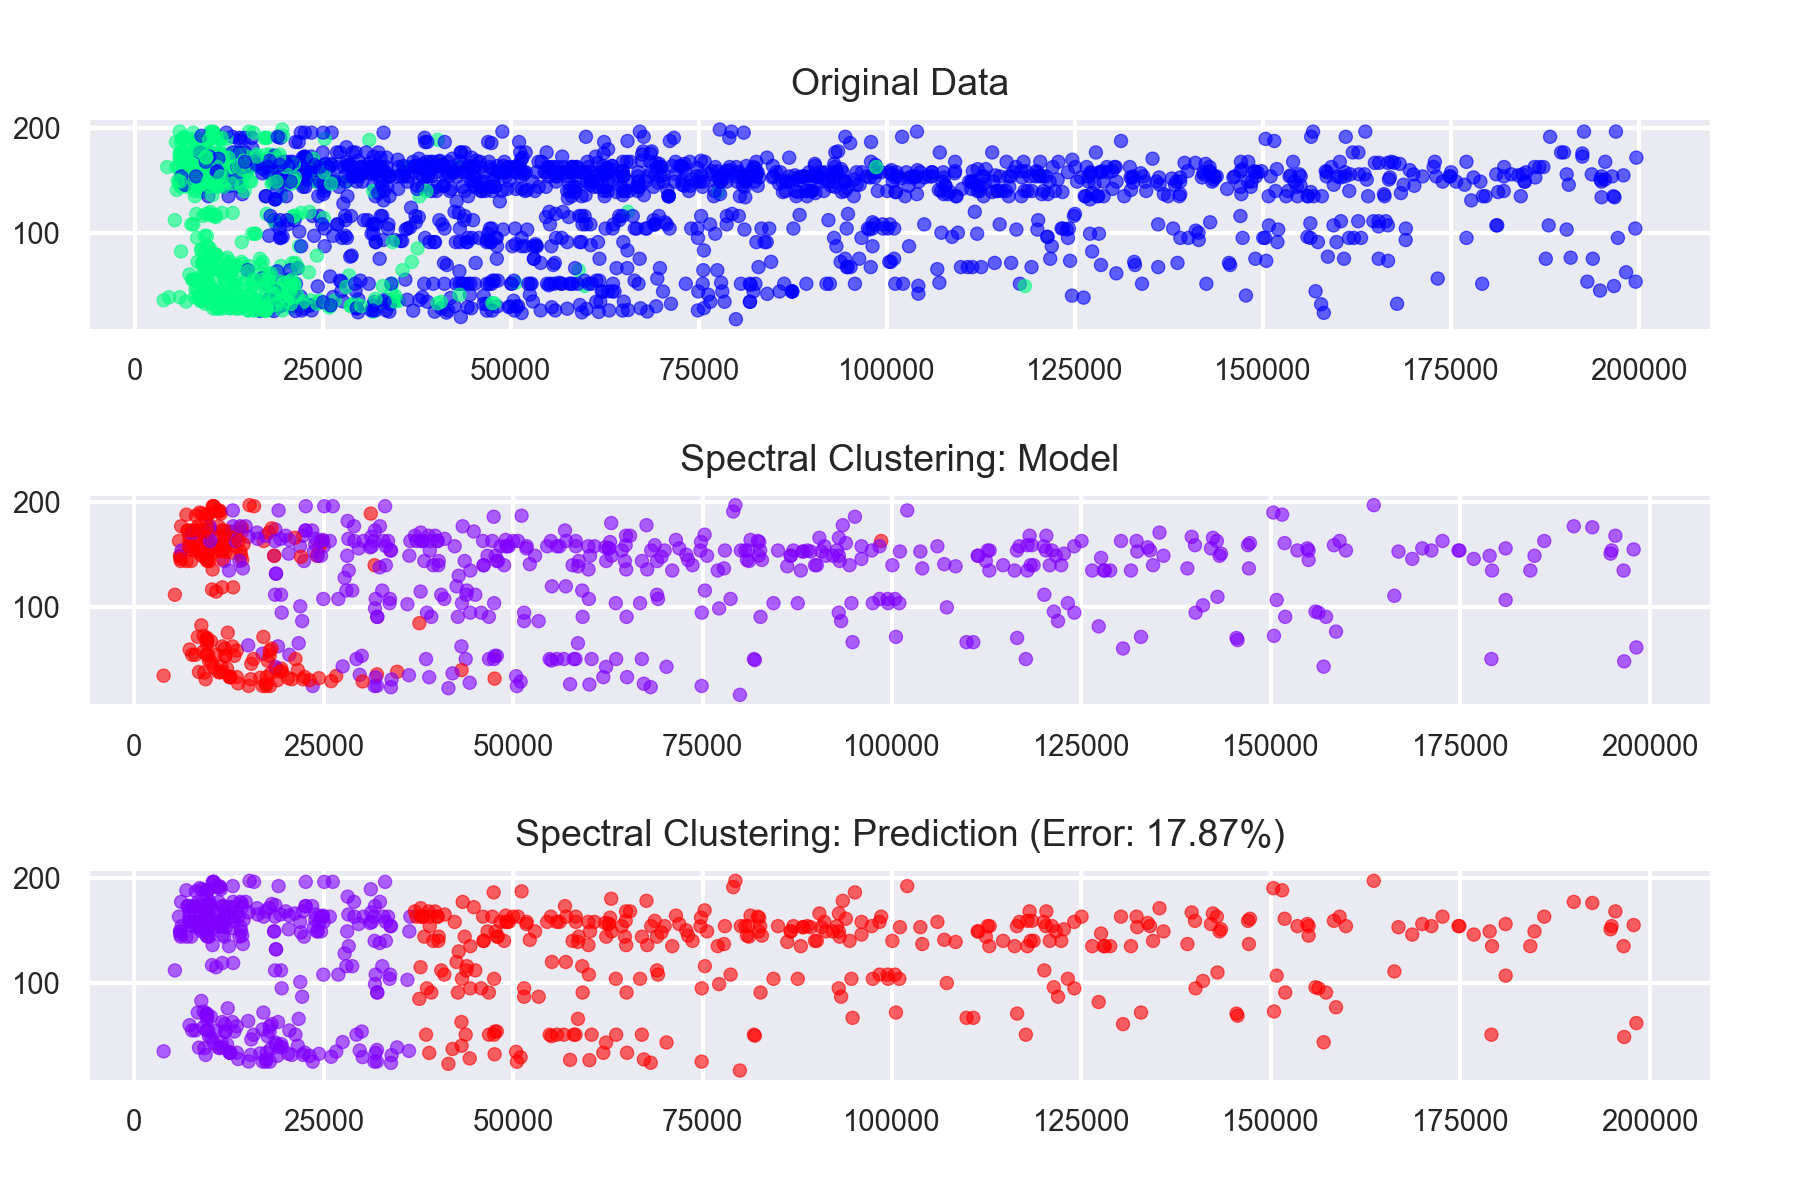
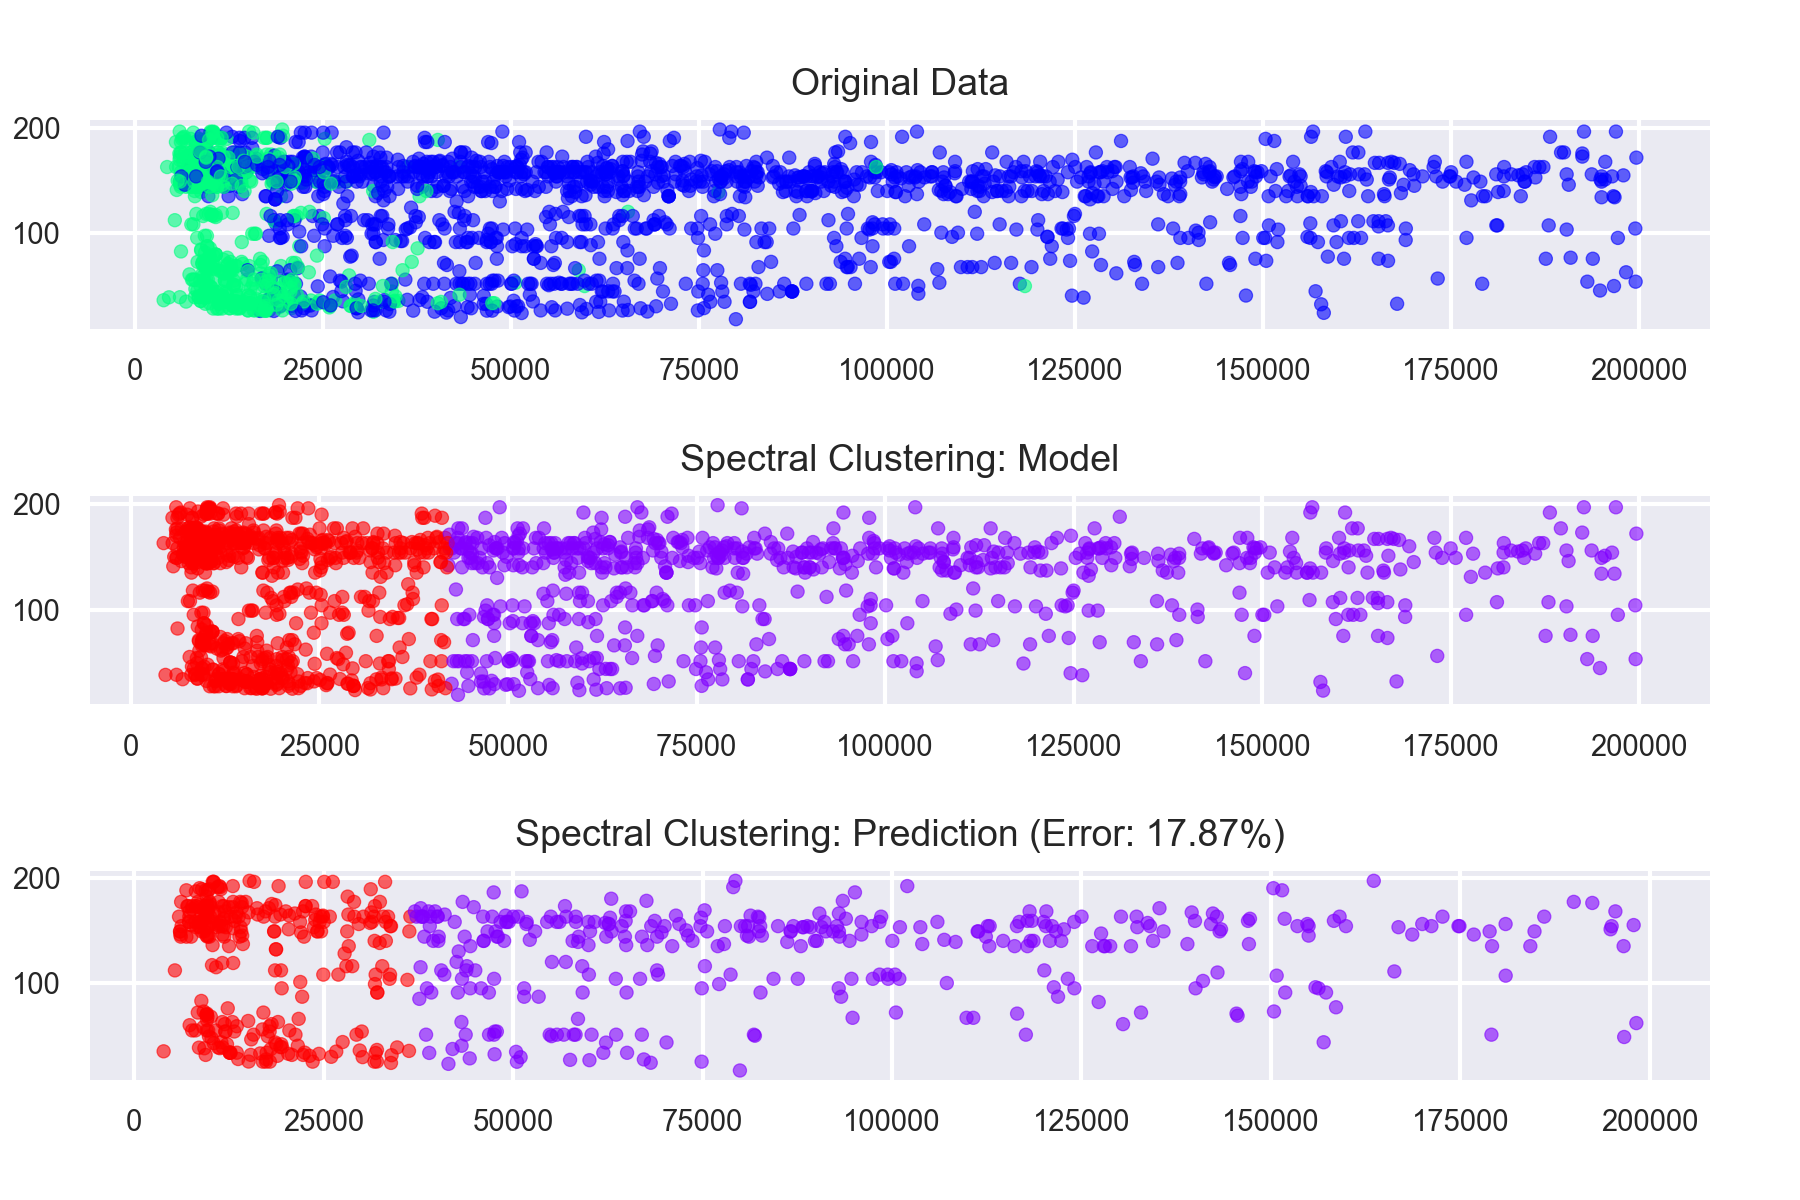
almost done

diff --git a/clust.py b/clust.py
@@ -119,15 +119,16 @@ plt.xticks(fontsize=7)
 plt.yticks(fontsize=7)
 
 plt.subplot(3,1,2)
-plt.scatter(x_test.iloc[:,0].values,x_test.iloc[:,1].values, s=10, c=y_test ,cmap='rainbow', alpha=0.6)
+spectral = SpectralClustering(n_clusters = 2, eigen_solver='arpack', affinity='nearest_neighbors', n_neighbors=30)
+spectral_fit = spectral.fit(x_train, y_train)
+spectral_fit_model = spectral_fit.fit_predict(x_train)
+spectral_fit_predict = spectral_fit.fit_predict(x_test)
+plt.scatter(x_train.iloc[:,0].values,x_train.iloc[:,1].values, s=10, c=spectral_fit_model ,cmap='rainbow', alpha=0.6)
 plt.title("Spectral Clustering: Model", fontsize=9)
 plt.xticks(fontsize=7)
 plt.yticks(fontsize=7)
 
 plt.subplot(3,1,3)
-spectral = SpectralClustering(n_clusters = 2, eigen_solver='arpack', affinity='nearest_neighbors', n_neighbors=30)
-spectral_fit = spectral.fit(x_train, y_train)
-spectral_fit_predict = spectral_fit.fit_predict(x_test)
 error_spectral = 0
 for i in range(0,ts):
     if spectral_fit_predict[i] != y_test[i]:
@@ -249,16 +250,78 @@ plt.savefig('plots/spectral_all.png', dpi=300)
 '''--------------------
 k-means
 --------------------'''
-# plt.figure(3).set_size_inches(6,4)
-# plt.figure(3).subplots_adjust(left=0.05, bottom=0.1, right=0.95, top=0.9, wspace=0.6, hspace=0.8)
-#
-# km = cluster.KMeans(n_clusters=2, random_state=0)
-# km.fit(X)
-# cl = km.labels_
-# plt.subplot(1,2,1)
-# plt.scatter(X[:,3],X[:,2],c=cl)
-#
-# plt.savefig('plots/k-means.png', dpi=300)
+plt.figure(3).set_size_inches(6,4)
+plt.figure(3).subplots_adjust(left=0.05, bottom=0.1, right=0.95, top=0.9, wspace=0.6, hspace=0.8)
+
+
+plt.subplot(3,1,1)
+plt.scatter(X.iloc[:,0],X.iloc[:,1], s=10, c=Y ,cmap='winter', alpha=0.6)
+plt.title("Original Data", fontsize=9)
+plt.xticks(fontsize=7)
+plt.yticks(fontsize=7)
+
+plt.subplot(3,1,2)
+km = cluster.KMeans(n_clusters=2)
+km = km.fit(x_train, y_train)
+km_fit_model = km.fit_predict(x_train)
+cl = km.predict(x_test)
+plt.scatter(x_train.iloc[:,0].values,x_train.iloc[:,1].values, s=10, c=km_fit_model ,cmap='rainbow', alpha=0.6)
+plt.title("K-means: Model", fontsize=9)
+plt.xticks(fontsize=7)
+plt.yticks(fontsize=7)
+
+plt.subplot(3,1,3)
+error_spectral = 0
+for i in range(0,ts):
+    if cl[i] != y_test[i]:
+        error_spectral = error_spectral + 1
+error_spectral = error_spectral/ts*100
+if error_spectral > 50:
+    error_spectral = 100 - error_spectral
+plt.scatter(x_test.iloc[:,0].values,x_test.iloc[:,1].values, s=10, c=cl ,cmap='rainbow', alpha=0.6)
+plt.title("K-means (Error: %s%%)" %(round(error_spectral,2)), fontsize=9)
+plt.xticks(fontsize=7)
+plt.yticks(fontsize=7)
+
+plt.savefig('plots/k-means.png', dpi=300)
+
+'''--------------------
+Hierarchical
+--------------------'''
+plt.figure(4).set_size_inches(6,4)
+plt.figure(4).subplots_adjust(left=0.05, bottom=0.1, right=0.95, top=0.9, wspace=0.6, hspace=0.8)
+
+
+plt.subplot(3,1,1)
+plt.scatter(X.iloc[:,0],X.iloc[:,1], s=10, c=Y ,cmap='winter', alpha=0.6)
+plt.title("Original Data", fontsize=9)
+plt.xticks(fontsize=7)
+plt.yticks(fontsize=7)
+
+plt.subplot(3,1,2)
+hc = cluster.AgglomerativeClustering(n_clusters=2, linkage='ward')
+hc = hc.fit(x_train, y_train)
+hc_fit_model = hc.fit_predict(x_train)
+cl = hc.fit_predict(x_test)
+plt.scatter(x_train.iloc[:,0].values,x_train.iloc[:,1].values, s=10, c=hc_fit_model ,cmap='rainbow', alpha=0.6)
+plt.title("Hierarchical: Model", fontsize=9)
+plt.xticks(fontsize=7)
+plt.yticks(fontsize=7)
+
+plt.subplot(3,1,3)
+error_spectral = 0
+for i in range(0,ts):
+    if cl[i] != y_test[i]:
+        error_spectral = error_spectral + 1
+error_spectral = error_spectral/ts*100
+if error_spectral > 50:
+    error_spectral = 100 - error_spectral
+plt.scatter(x_test.iloc[:,0].values,x_test.iloc[:,1].values, s=10, c=cl ,cmap='rainbow', alpha=0.6)
+plt.title("Hierarchical (Error: %s%%)" %(round(error_spectral,2)), fontsize=9)
+plt.xticks(fontsize=7)
+plt.yticks(fontsize=7)
+
+plt.savefig('plots/Hierarchical.png', dpi=300)
 
 # plt.show()
 
